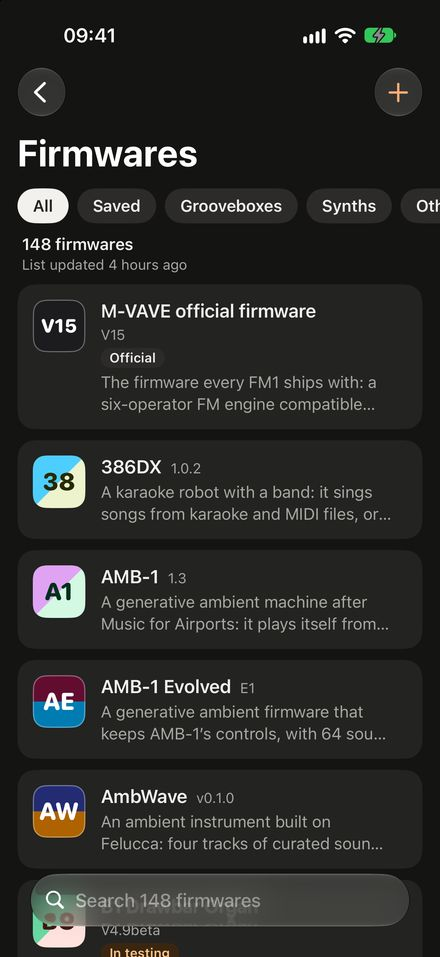
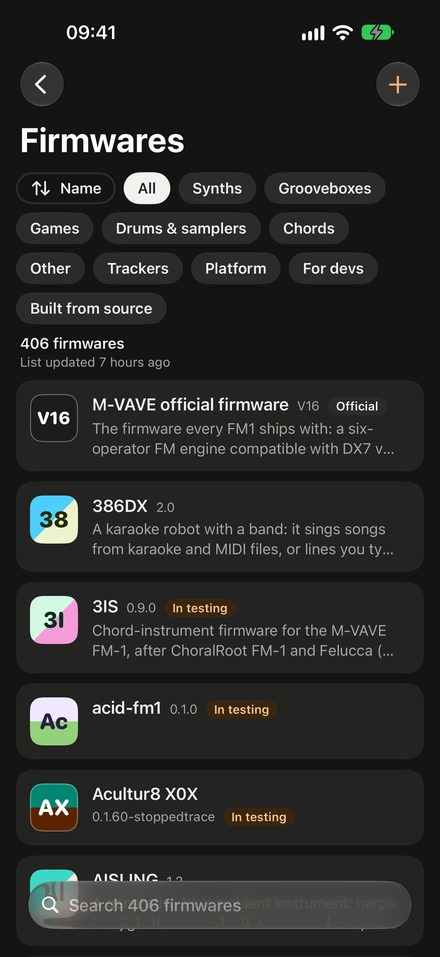
Replace the FM-SWITCH screenshots with ones from 0.2
The App Store screenshots show the three install stages, the flash chip warning and V16 in the list. Before you start and Done join the gallery in place of Restarting; the firmware page and Save my FM-1 have no new dark versions, so the old ones go.

Claude-Session: https://claude.ai/code/session_01HsxeMLrGTSbcURZLFAdN4D

diff --git a/fm-switch/index.html b/fm-switch/index.html
@@ -142,7 +142,7 @@
         <figure>
           <picture>
             <source srcset="screens/my-fm1-dark.jpg" media="(prefers-color-scheme: dark)">
-            <img src="screens/my-fm1-light.jpg" alt="My FM-1: the drawn FM-1, the connection, and the Change firmware and Save my FM-1 cards." width="440" height="957" loading="lazy">
+            <img src="screens/my-fm1-light.jpg" alt="My FM-1: the drawn FM-1, the connection, and the Change firmware, My firmwares and Help cards." width="440" height="957" loading="lazy">
           </picture>
           <figcaption>My FM-1</figcaption>
         </figure>
@@ -151,38 +151,38 @@
         <figure>
           <picture>
             <source srcset="screens/firmwares-dark.jpg" media="(prefers-color-scheme: dark)">
-            <img src="screens/firmwares-light.jpg" alt="Firmwares: filters for kinds, and the list with each firmware's badge." width="440" height="957" loading="lazy">
+            <img src="screens/firmwares-light.jpg" alt="Firmwares: the sort and filters for kinds, and the list with each firmware's badge, starting with M-VAVE's official V16." width="440" height="957" loading="lazy">
           </picture>
           <figcaption>Firmwares</figcaption>
         </figure>
       </li>
       <li>
         <figure>
-          <picture>
-            <source srcset="screens/firmware-page-dark.jpg" media="(prefers-color-scheme: dark)">
-            <img src="screens/firmware-page-light.jpg" alt="A firmware's page: zp12, with pictures from its README, an Install button and its links." width="440" height="957" loading="lazy">
-          </picture>
+          <img src="screens/firmware-page-light.jpg" alt="A firmware's page: zp12, with pictures from its README, a warning that it only knows the older flash chip, and an Install button." width="440" height="957" loading="lazy">
           <figcaption>A firmware's page</figcaption>
         </figure>
       </li>
       <li>
         <figure>
-          <img src="screens/installing-light.jpg" alt="Installing SLOOP: the drawn FM-1's screen and the progress bar just started, with Getting ready done and Installing now." width="440" height="957" loading="lazy">
+          <img src="screens/before-you-start-light.jpg" alt="Before you start, for AMB-1: plugged in with a data cable, left plugged in until it's done, and anything worth keeping saved." width="440" height="957" loading="lazy">
+          <figcaption>Before you start</figcaption>
+        </figure>
+      </li>
+      <li>
+        <figure>
+          <img src="screens/installing-light.jpg" alt="Installing AMB-1: the drawn FM-1's screen, the progress bar, and Getting ready done with Installing now and Restarting next." width="440" height="957" loading="lazy">
           <figcaption>Installing</figcaption>
         </figure>
       </li>
       <li>
         <figure>
-          <img src="screens/restarting-light.jpg" alt="Installing SLOOP, nearly done: the progress bar almost full, with Getting ready, Installing and Checking done and Restarting now." width="440" height="957" loading="lazy">
-          <figcaption>Restarting</figcaption>
+          <img src="screens/done-light.jpg" alt="AMB-1 is ready to play: the FM-1 says it's running the new firmware and is safe to unplug." width="440" height="957" loading="lazy">
+          <figcaption>Done</figcaption>
         </figure>
       </li>
       <li>
         <figure>
-          <picture>
-            <source srcset="screens/save-my-fm1-dark.jpg" media="(prefers-color-scheme: dark)">
-            <img src="screens/save-my-fm1-light.jpg" alt="Save my FM-1: what a copy keeps, a note about what happens while it saves, and earlier saves." width="440" height="957" loading="lazy">
-          </picture>
+          <img src="screens/save-my-fm1-light.jpg" alt="Save my FM-1: what a copy keeps, a note about what happens while it saves, and the Save my FM-1 button." width="440" height="957" loading="lazy">
           <figcaption>Save my FM-1</figcaption>
         </figure>
       </li>
